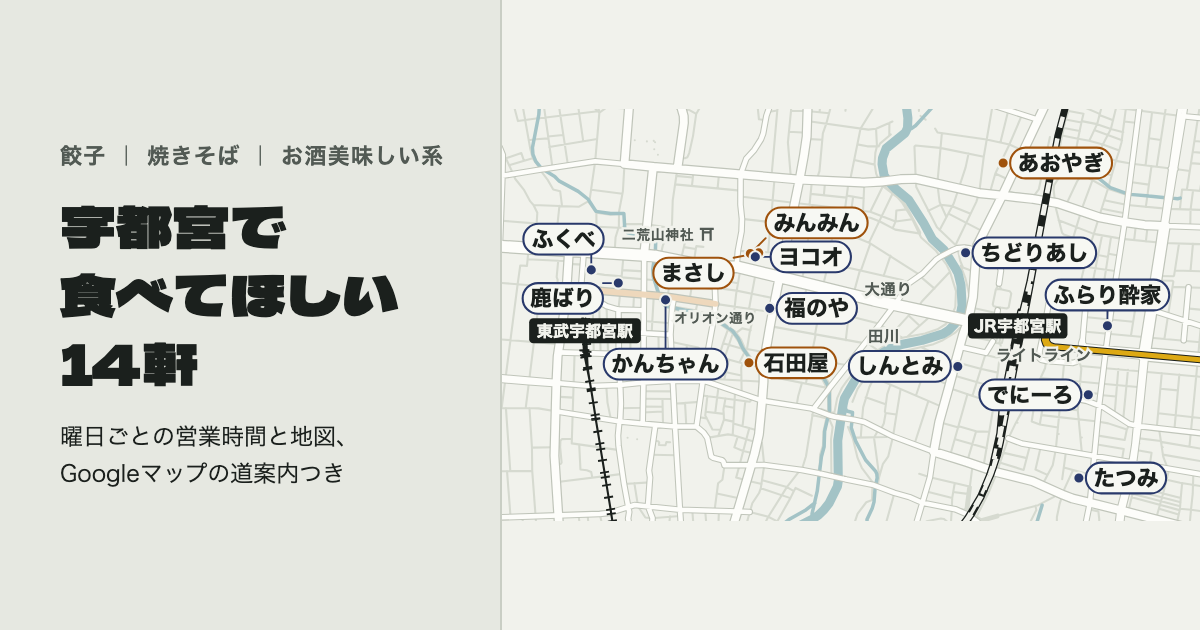
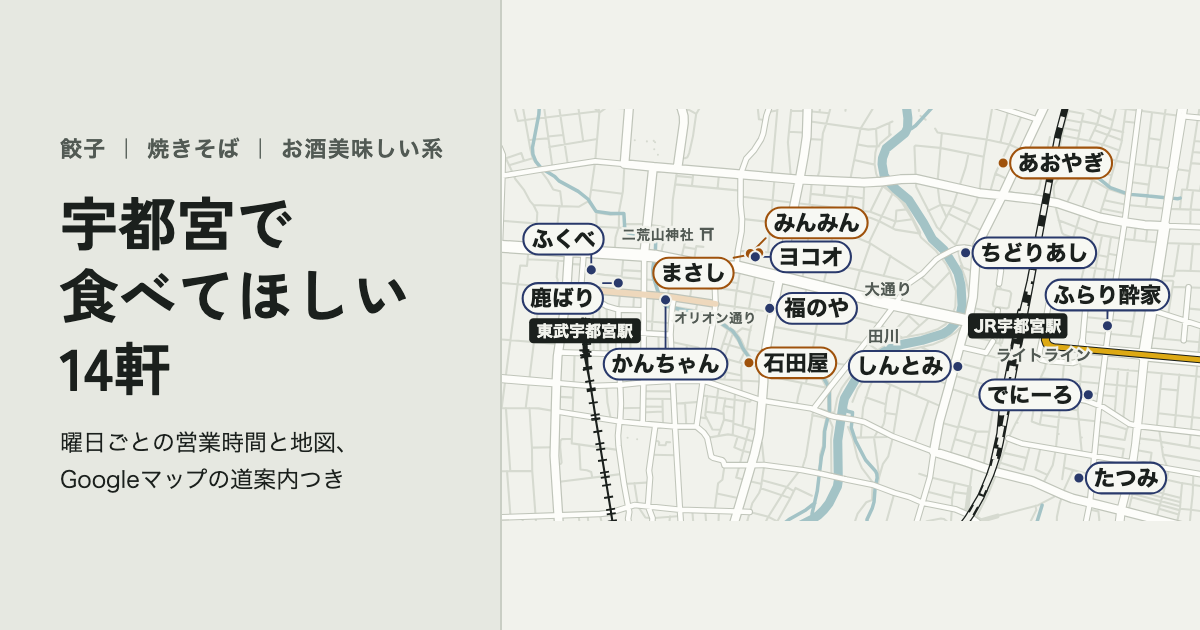
見出し・店名のフォントを読みやすい太字（Zen Kaku Gothic New 700）に変更

diff --git a/index.html b/index.html
@@ -20,7 +20,7 @@
 <title>宇都宮で食べてほしい14軒</title>
 <link rel="preconnect" href="https://fonts.googleapis.com">
 <link rel="preconnect" href="https://fonts.gstatic.com" crossorigin>
-<link rel="stylesheet" href="https://fonts.googleapis.com/css2?family=Dela+Gothic+One&amp;display=swap&amp;text=14%E3%81%82%E3%81%84%E3%81%8A%E3%81%8B%E3%81%8D%E3%81%8E%E3%81%8F%E3%81%95%E3%81%97%E3%81%9D%E3%81%9F%E3%81%A1%E3%81%A4%E3%81%A6%E3%81%A7%E3%81%A8%E3%81%A9%E3%81%AB%E3%81%AE%E3%81%B0%E3%81%B5%E3%81%B9%E3%81%BB%E3%81%BE%E3%81%BF%E3%82%83%E3%82%84%E3%82%89%E3%82%8A%E3%82%8D%E3%82%93%E3%82%AA%E3%82%B3%E3%83%A8%E3%83%BC%E4%B8%AD%E5%81%B4%E5%89%8D%E5%AD%90%E5%AE%87%E5%AE%AE%E5%AE%B6%E5%B1%8B%E5%BF%83%E6%9D%B1%E7%84%BC%E7%94%B0%E7%9F%B3%E7%A6%8F%E8%A5%BF%E8%BB%92%E9%83%A8%E9%83%BD%E9%85%94%E9%A3%9F%E9%A4%83%E9%A7%85%E9%B9%BF">
+<link rel="stylesheet" href="https://fonts.googleapis.com/css2?family=Zen+Kaku+Gothic+New:wght@700&amp;display=swap&amp;text=14%E3%81%82%E3%81%84%E3%81%8A%E3%81%8B%E3%81%8D%E3%81%8E%E3%81%8F%E3%81%95%E3%81%97%E3%81%9D%E3%81%9F%E3%81%A1%E3%81%A4%E3%81%A6%E3%81%A7%E3%81%A8%E3%81%A9%E3%81%AB%E3%81%AE%E3%81%B0%E3%81%B5%E3%81%B9%E3%81%BB%E3%81%BE%E3%81%BF%E3%82%83%E3%82%84%E3%82%89%E3%82%8A%E3%82%8D%E3%82%93%E3%82%AA%E3%82%B3%E3%83%A8%E3%83%BC%E4%B8%AD%E5%81%B4%E5%89%8D%E5%AD%90%E5%AE%87%E5%AE%AE%E5%AE%B6%E5%B1%8B%E5%BF%83%E6%9D%B1%E7%84%BC%E7%94%B0%E7%9F%B3%E7%A6%8F%E8%A5%BF%E8%BB%92%E9%83%A8%E9%83%BD%E9%85%94%E9%A3%9F%E9%A4%83%E9%A7%85%E9%B9%BF">
 <link rel="stylesheet" href="https://fonts.googleapis.com/css2?family=Klee+One:wght@600&amp;display=swap&amp;text=3%E3%80%81%E3%81%82%E3%81%84%E3%81%86%E3%81%8A%E3%81%8B%E3%81%8C%E3%81%8F%E3%81%91%E3%81%95%E3%81%97%E3%81%99%E3%81%9D%E3%81%9E%E3%81%9F%E3%81%A0%E3%81%A1%E3%81%A7%E3%81%A9%E3%81%AA%E3%81%AE%E3%81%AF%E3%81%B9%E3%81%BE%E3%82%81%E3%82%82%E3%82%83%E3%82%87%E3%82%88%E3%82%89%E3%82%8A%E3%82%8B%E3%82%8C%E3%82%8F%E3%82%93%E3%82%A4%E3%82%BA%E3%83%81%E3%83%95%E3%83%A3%E3%83%A9%E3%83%B3%E3%83%BC%E4%B8%80%E4%BA%88%E5%88%86%E5%8F%A3%E5%8F%A4%E5%90%8D%E5%91%B3%E5%AE%9A%E5%AE%9F%E5%AE%B6%E5%AF%8C%E5%B0%91%E5%B1%80%E5%BA%97%E5%BE%92%E5%BF%85%E6%8A%9E%E6%97%A5%E6%9C%89%E6%9C%AC%E6%AD%A9%E6%B4%BE%E7%95%AA%E7%B4%84%E7%B5%90%E7%BE%8E%E8%88%97%E8%B1%8A%E9%81%95%E9%85%92%E9%A0%88%E9%A3%9F%EF%BC%81%EF%BC%9F">
 <style>
 :root{
@@ -28,7 +28,7 @@
   --day:#9F520C; --day-soft:#F1E2CF; --night:#29396B; --night-soft:#DDE2EE;
   --lrt:#DDA914; --lrt-edge:#1B201D; --water:#A3C3C6; --road:#FDFDFA; --road-edge:#C0C5BA; --minor:#D6DAD0; --arcade:#EED8BC;
   --focus:#1A66C9;
-  --f-display:"Dela Gothic One","Hiragino Sans","Hiragino Kaku Gothic ProN","Noto Sans JP","Yu Gothic",sans-serif;
+  --f-display:"Zen Kaku Gothic New","Hiragino Sans","Hiragino Kaku Gothic ProN","Noto Sans JP","Yu Gothic",sans-serif;
   --f-voice:"Klee One","Hiragino Sans","Hiragino Kaku Gothic ProN","Noto Sans JP","Yu Gothic",sans-serif;
   --f-body:"Hiragino Sans","Hiragino Kaku Gothic ProN","Noto Sans JP","BIZ UDPGothic","Yu Gothic UI","Yu Gothic",Meiryo,system-ui,sans-serif;
   color-scheme:light;
@@ -57,7 +57,7 @@ a{color:inherit}
 
 .head{padding-block:30px 18px;display:grid;gap:8px}
 .eyebrow{margin:0;font-size:12.5px;font-weight:700;color:var(--ink-2);letter-spacing:.06em}
-h1{margin:0;word-break:keep-all;overflow-wrap:anywhere;font-family:var(--f-display);font-weight:400;font-size:clamp(30px,8vw,48px);line-height:1.18;letter-spacing:.01em;text-wrap:balance}
+h1{margin:0;word-break:keep-all;overflow-wrap:anywhere;font-family:var(--f-display);font-weight:700;font-feature-settings:"palt" 1;font-size:clamp(30px,8vw,48px);line-height:1.18;letter-spacing:.01em;text-wrap:balance}
 .lede{margin:4px 0 0;font-size:15px;max-width:38em}
 .asof{margin:0;font-size:12.5px;color:var(--ink-2)}
 
@@ -129,7 +129,7 @@ h1{margin:0;word-break:keep-all;overflow-wrap:anywhere;font-family:var(--f-displ
 .group.c-day{--c:var(--day);--csoft:var(--day-soft)} .group.c-night{--c:var(--night);--csoft:var(--night-soft)}
 .g-head{display:grid;gap:5px;margin-bottom:12px}
 .g-eyebrow{margin:0;font-size:12px;font-weight:800;color:var(--c);letter-spacing:.06em}
-h2{margin:0;font-family:var(--f-display);font-weight:400;font-size:27px;line-height:1.3;display:flex;flex-wrap:wrap;align-items:baseline;gap:2px 12px;text-wrap:balance}
+h2{margin:0;font-family:var(--f-display);font-weight:700;font-feature-settings:"palt" 1;font-size:27px;line-height:1.3;display:flex;flex-wrap:wrap;align-items:baseline;gap:2px 12px;text-wrap:balance}
 .g-area{font-family:var(--f-body);font-size:13px;font-weight:700;color:var(--ink-2)}
 .voice{font-family:var(--f-voice);font-weight:600;line-height:1.75}
 .g-voice{margin:0;font-size:16px;max-width:34em}
@@ -141,7 +141,7 @@ h2{margin:0;font-family:var(--f-display);font-weight:400;font-size:27px;line-hei
 .shop + .shop{border-top:1px solid var(--rule)}
 .shop.is-hot{background:var(--csoft);transition:none}
 .s-top{display:flex;flex-wrap:wrap;align-items:baseline;gap:2px 10px}
-.s-name{margin:0;font-family:var(--f-display);font-weight:400;font-size:24px;line-height:1.25}
+.s-name{margin:0;font-family:var(--f-display);font-weight:700;font-feature-settings:"palt" 1;font-size:24px;line-height:1.25}
 .s-kind{font-size:13px;font-weight:700;color:var(--ink-2)}
 .s-flag{align-self:center;font-size:12px;font-weight:800;line-height:1;padding:5px 8px;border-radius:5px;background:var(--c);color:var(--paper)}
 .s-official{margin:-3px 0 0;font-size:12.5px;color:var(--ink-2)}
